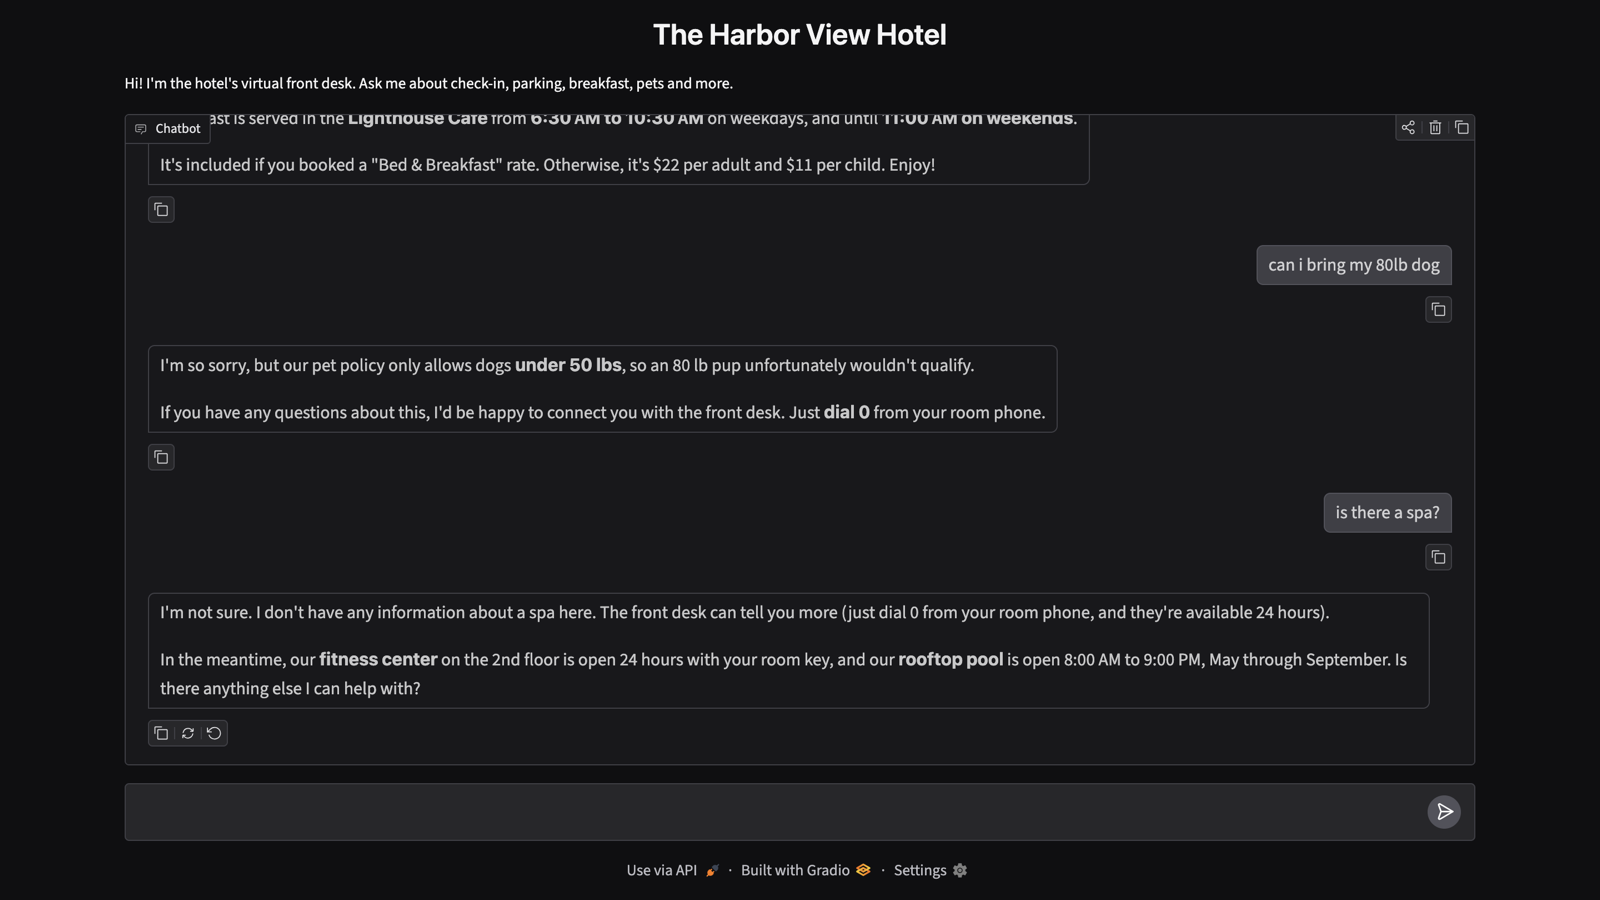
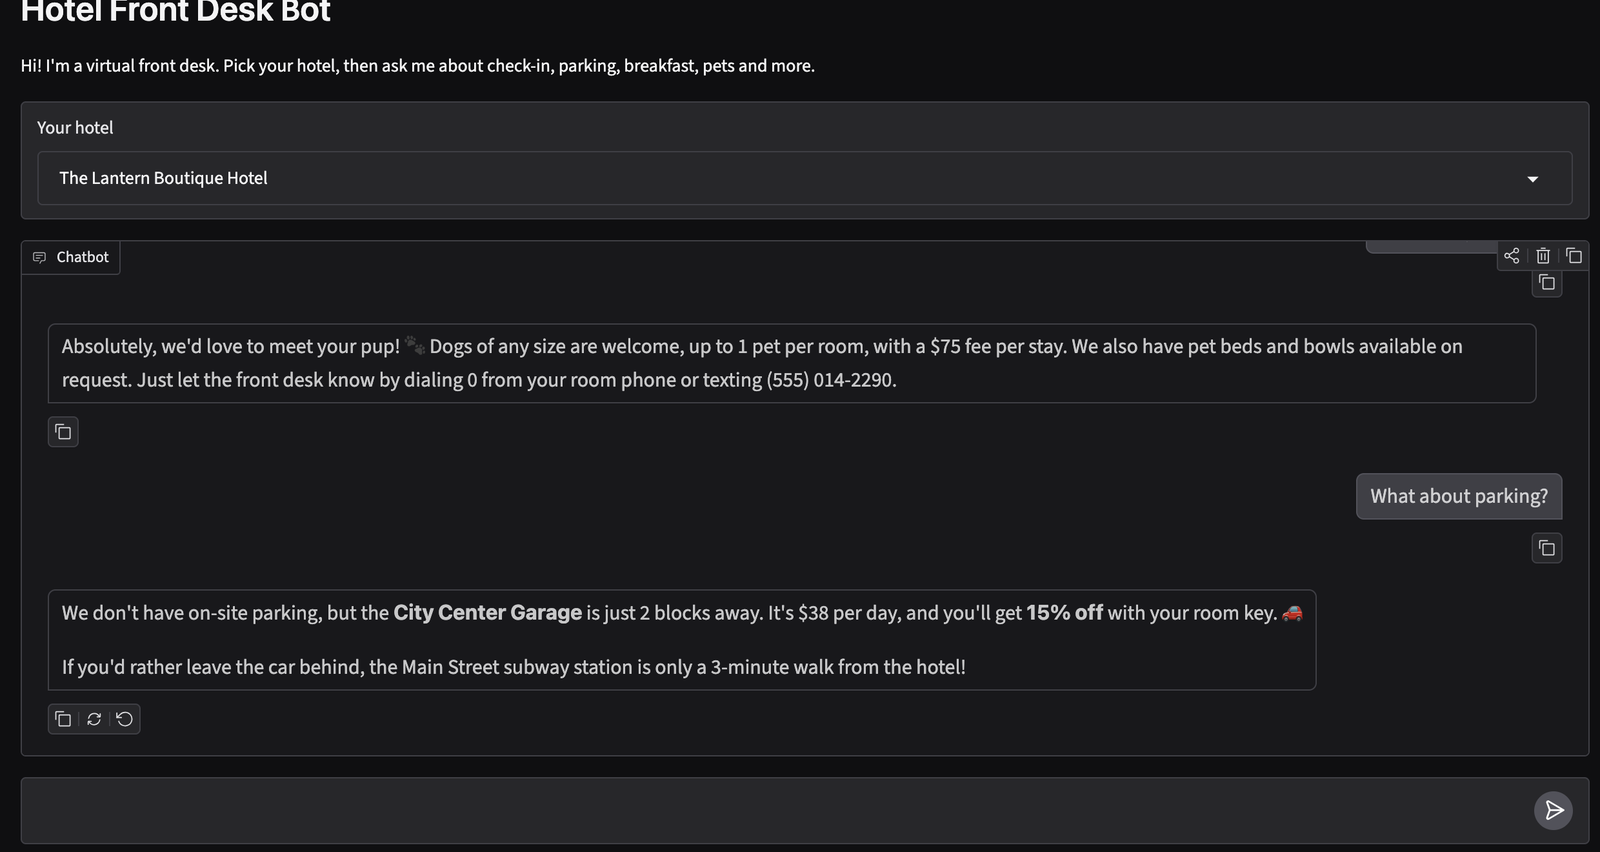
Update README screenshot and examples to match the current bot
The old picture had no hotel picker, and one example answer still showed
the bot offering to connect guests. Examples now quote the latest test run.

diff --git a/README.md b/README.md
@@ -4,7 +4,7 @@ A virtual front desk assistant that answers hotel guests' questions — check-in
 
 **[Try it live →](https://hotel-faq-bot.onrender.com)** *(hosted on a free server that sleeps when idle, so the first visit can take about a minute to wake up)*
 
-![The bot answering guest questions about breakfast, an 80 lb dog, and a spa the hotel doesn't have](screenshot.png)
+![The bot answering a Lantern guest's questions about bringing a dog and parking, with the hotel picker at the top](screenshot.png)
 
 I spent years in hospitality, where the same handful of guest questions come up all day. This project is my first step in applying AI to that problem: a bot that answers from the hotel's own information, and hands off to a human when it doesn't know.
 
@@ -14,7 +14,8 @@ I spent years in hospitality, where the same handful of guest questions come up 
 - Guests pick their hotel from a dropdown. Switching hotels starts a fresh conversation, so details from one hotel never leak into another.
 - `faq_bot.py` sends the guest's question to Claude along with a **system prompt** containing that hotel's info and a few rules:
   - Answer only from the hotel information.
-  - If the answer isn't there, say so and offer to connect the guest with the front desk. **Never make up details.**
+  - If the answer isn't there, say so and direct the guest to the front desk. **Never make up details.**
+  - If a guest pushes for an exception, don't promise one. Restate the rule and direct them to the front desk.
   - Keep answers short and warm, like a good front desk agent.
 - `app.py` puts a chat web page in front of the bot using [Gradio](https://www.gradio.app/).
 - **Conversation memory:** Claude doesn't remember anything between requests, so the bot sends the whole conversation each time. That's what lets a guest ask "Is there parking?" and then "How much is it?"
@@ -23,15 +24,17 @@ The "don't make things up" rule matters most. A bot that confidently invents a p
 
 ## Example
 
-The Harbor View Hotel allows dogs under 50 lbs and has no spa. Here's how the bot handled both:
+The Harbor View Hotel allows dogs under 50 lbs and has no spa information on file. Here's how the bot handled both:
 
 > **Guest:** can i bring my 80lb dog
-> **Bot:** I'm so sorry, but our pet policy only allows dogs **under 50 lbs**, so an 80 lb pup unfortunately wouldn't qualify. If you have any questions about this, I'd be happy to connect you with the front desk. Just **dial 0** from your room phone.
+>
+> **Bot:** I'm sorry, but our pet policy welcomes **dogs under 50 lbs** only, so an 80 lb dog wouldn't fall within our guidelines. We allow up to 2 dogs per room, with a $50 per stay cleaning fee. If you have any questions about this, the front desk is open 24 hours and happy to help. Just dial **0** from your room phone. 🐾
 
 > **Guest:** is there a spa?
-> **Bot:** I'm not sure. I don't have any information about a spa here. The front desk can tell you more (just dial 0 from your room phone, and they're available 24 hours). In the meantime, our **fitness center** on the 2nd floor is open 24 hours with your room key, and our **rooftop pool** is open 8:00 AM to 9:00 PM, May through September. Is there anything else I can help with?
+>
+> **Bot:** I'm not sure about a spa, I'm afraid. The front desk can help with that. They're open 24 hours, and you can reach them by dialing 0 from your room phone. In the meantime, you're welcome to use our 24-hour fitness center on the 2nd floor (just use your room key). From May through September, our rooftop pool is open 8:00 AM to 9:00 PM.
 
-It applied the pet policy correctly, and instead of inventing a spa it handed off to the front desk and suggested amenities the hotel actually has.
+It applied the pet policy correctly, and instead of inventing a spa it sent the guest to the front desk and mentioned amenities the hotel actually has.
 
 ## Running it yourself
 
